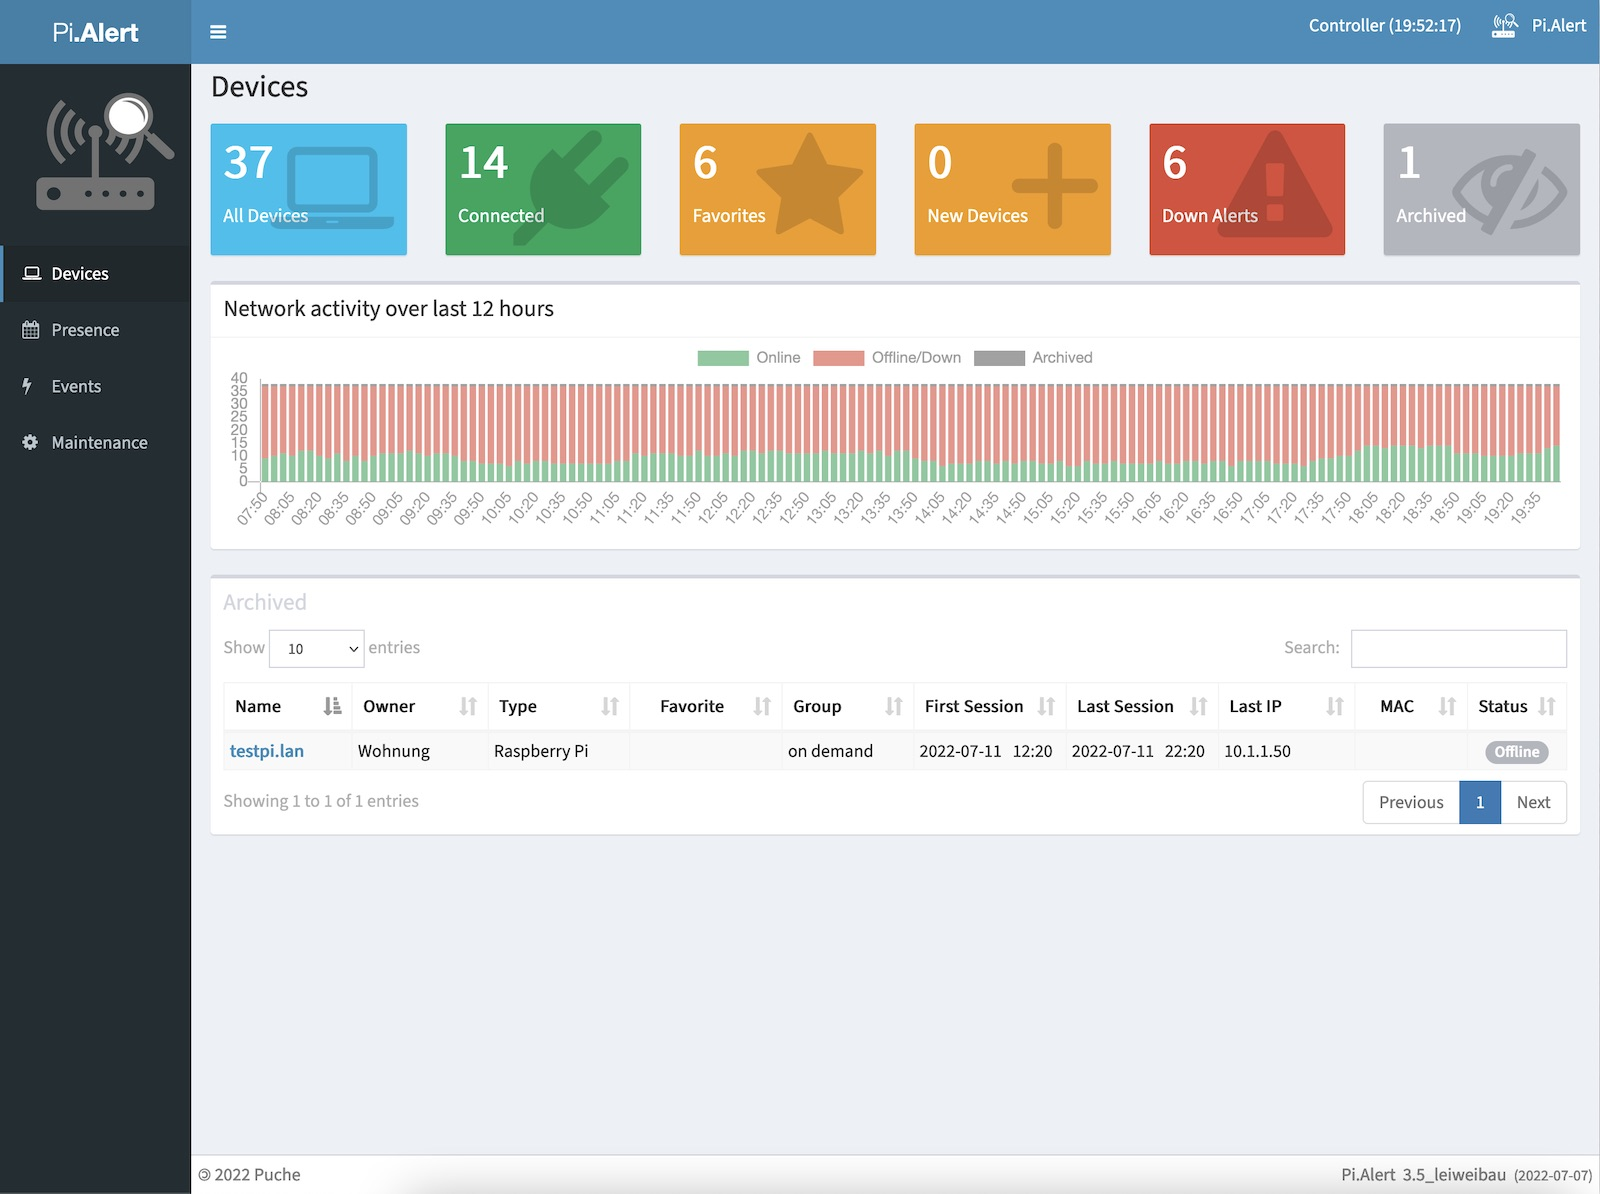
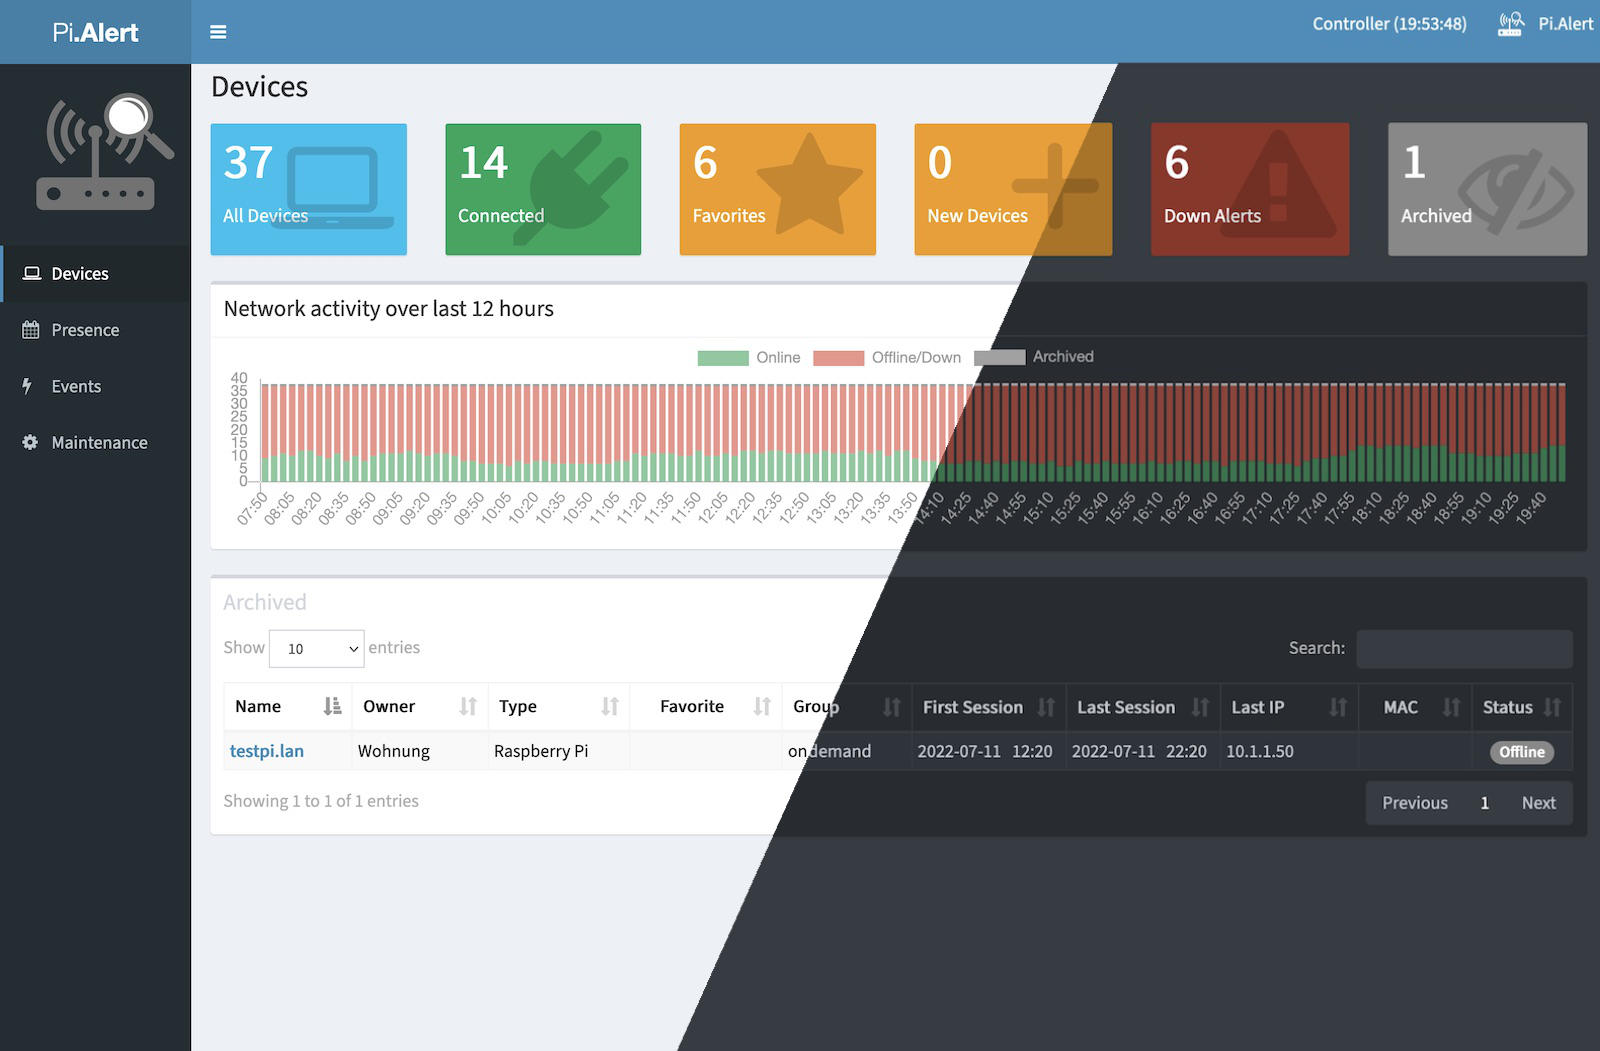
update Readme

diff --git a/README.md b/README.md
@@ -10,9 +10,6 @@ unknown devices. It also warns if a "always connected" devices disconnects.
 *(Apologies for my English and my limited knowledge of Python, php and
 JavaScript)*
 
-![Main screen dark][main_dark]
-optional Darkmode
-
 ## Modifications within this Fork
   - Only one scan cycle
   - Modified scanmethod. If you want to go back to the original method comment line 488 and uncomment line 491 in ~/pialert/back/pialert.py
@@ -170,6 +167,5 @@ Linux distributions.
 [screen6]: ./docs/img/2_5_device_nmap_ready.jpg "Screen 6"
 [report1]: ./docs/img/4_report_1.jpg          "Report sample 1"
 [report2]: ./docs/img/4_report_2.jpg          "Report sample 2"
-[main_dark]: /docs/img/1_devices_dark.jpg     "Main screen dark"
 [maintain_dark]: /docs/img/5_maintain.jpg     "Maintain screen dark"
 
